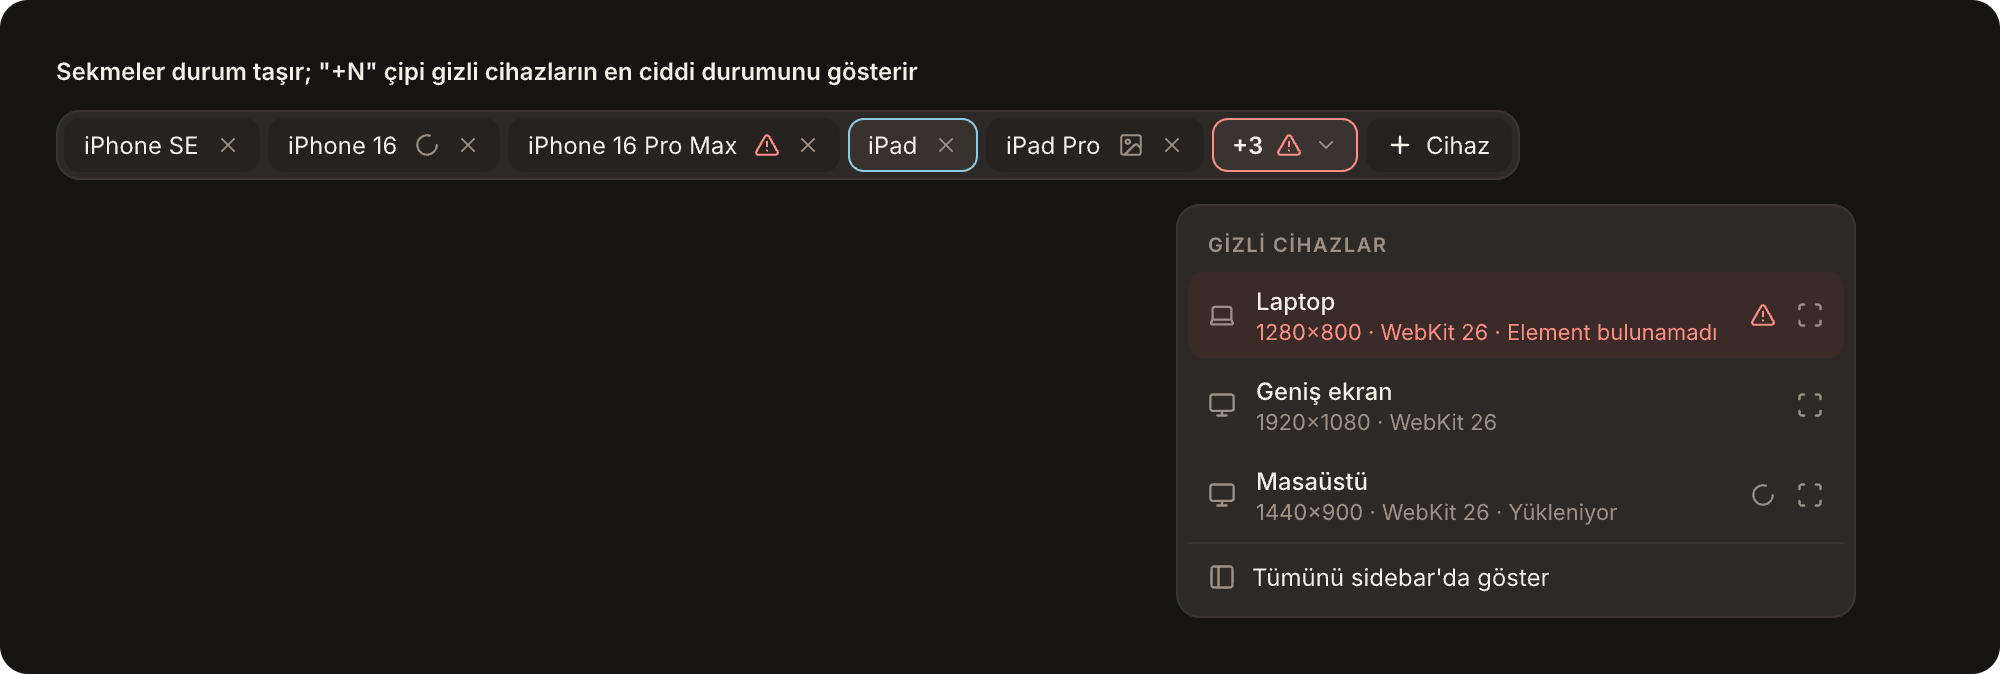
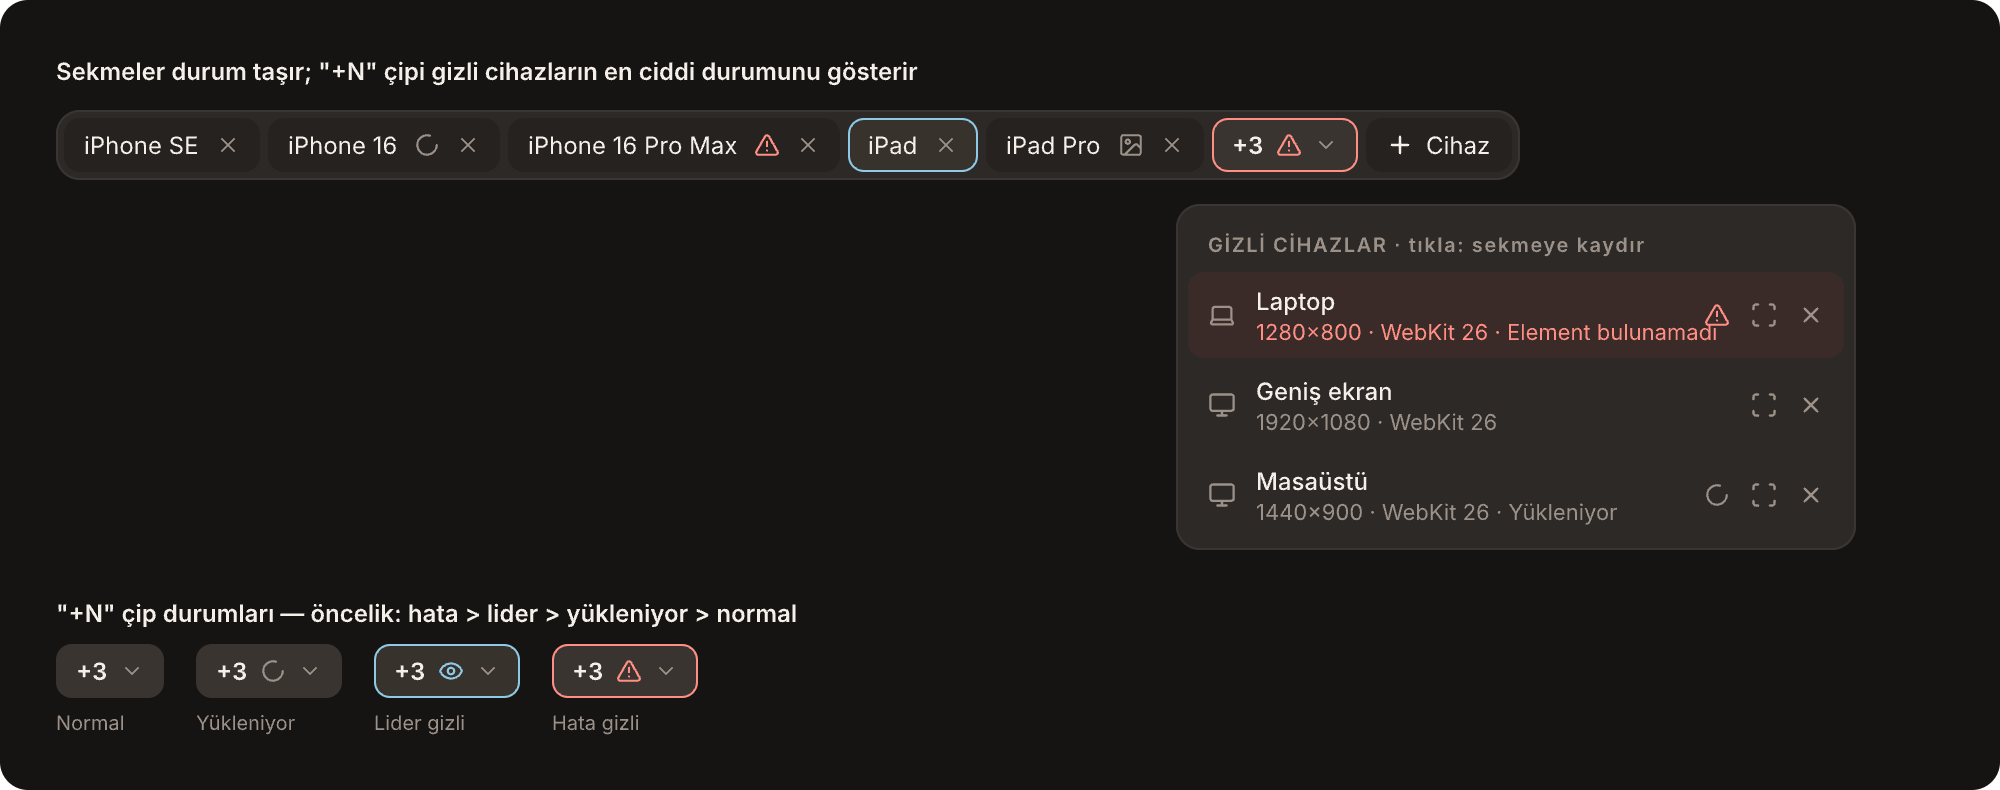
Add +N chip states, archive explorations, compare selected-state options

diff --git a/DESIGN.md b/DESIGN.md
@@ -105,7 +105,7 @@ Kullanıcının kaydettiği birim. Bir markanın (mağazanın) tüm kurulumunu t
 Üst çubuk yok. Üç kontrol yüzeyi, her biri tek iş yapar:
 
 - **Sidebar (220, varsayılan açık):** üstte traffic lights, URL alanı ve geri/ileri/yenile; altında "SAYFALAR" listesi. **URL alanı odaklanınca** altında "SON" menüsü, URL kutusuyla aynı genişlik ve sol hizada, 4 px altında (canvas'a taşmaz): son 5 URL (favicon; adres ortadan kısaltılır; altında ne zaman; ↑↓ ⏎ ile seçilir, yazdıkça süzülür), altta "Geçmişi temizle" ve "Bu sayfayı listeye ekle: ⌘D" ipucu; geçmiş uygulamaya aittir, proje dosyasına girmez. **Sayfa listesi durumları** (`sidebar-states@2x.png`): hover'da satır zemini + sağda kalem ve ⋯; yeniden adlandırma yerinde metin alanı (gök kenar; ⏎ kaydet, Esc iptal); sürükle-bırak'ta satır kalkar (gölge, hafif eğim), hedefte gök ekleme çizgisi; açık URL listede yoksa en altta sarı kenarlı "Bu sayfayı ekle · /yol · ⌘D" satırı; boş durum "Henüz sayfa yok · Açık sayfayı ⌘D ile ekle."; "+ Ekle" her zaman en altta. Kapanınca ışıklar, sidebar düğmesi, nav ve URL canvas'ın üst solunda tek bir yüzen kapsüle taşınır (aynı sırayla), canvas tam genişliği alır.
-- **Cihaz sekmeleri (canvas üstünde yüzen şerit):** açık viewport'lar sırayla; her sekme kartla aynı durumu taşır (lider gök çerçeve, senkron kaçtı mercan üçgen, yükleniyor dönen ikon, snapshot resim ikonu). Sığmayınca şerit kayar (kenarda solma + ok); sağda "+N" çipi gizli cihazların en ciddi durumunu gösterir (hata > lider > yükleniyor > normal) ve menü açar ("GİZLİ CİHAZLAR"): her gizli cihaz için ad, boyut · motor · durum metni, odakla ve kapat düğmeleri. Etkileşimler aşağıdaki tabloda. Sekme adı asla kısaltılmaz, durum ikonu asla gizlenmez. Sonda "+ Cihaz".
+- **Cihaz sekmeleri (canvas üstünde yüzen şerit):** açık viewport'lar sırayla; her sekme kartla aynı durumu taşır (lider gök çerçeve, senkron kaçtı mercan üçgen, yükleniyor dönen ikon, snapshot resim ikonu). Sığmayınca şerit kayar (kenarda solma + ok); sağda "+N" çipi gizli cihazların en ciddi durumunu gösterir (hata > lider > yükleniyor > normal: hata mercan kenar + üçgen, lider gök kenar + göz, yükleniyor dönen ikon, normal düz) ve menü açar ("GİZLİ CİHAZLAR"): her gizli cihaz için ad, boyut · motor · durum metni, odakla ve kapat düğmeleri. Etkileşimler aşağıdaki tabloda. Sekme adı asla kısaltılmaz, durum ikonu asla gizlenmez. Sonda "+ Cihaz".
 - **Alt yüzen çubuk (ikon-only):** Senkron (sarı zincir; kapalıyken gri kırık zincir), Sığdır, zoom kontrolü (`Toolbar/ZoomControl`: yüzde metni + sağında dikey mini stepper ▲▼; yüzdeye tık → menü, ▲▼ kademeli zoom, yüzde yatay sürükle → sürekli zoom), ekran görüntüsü. Her ikonun hover'ında koyu tooltip: ad + kısayol. Bildirim kapsülü bu çubuğun üstüne çıkar; menü veya tooltip açıkken gösterilmez.
 - **Ekran görüntüsü menüsü (kamera düğmesi, çubuğun üstüne açılır):** Tüm viewport'lar ⌘⇧S · Seçili viewport ⌘S · Canvas'ı olduğu gibi · — · Panoya da kopyala ✓ · Ölçek 2× ▾ · — · Son görüntüyü Finder'da göster. Kart başlığındaki kamera yalnız o viewport'u alır. Her yakalamadan sonra kapsül: "Kaydedildi ve kopyalandı · Finder'da Göster".
 - **Zoom menüsü (çubuğun üstüne açılır):** Sığdır ⌘1, Seçimi sığdır ⌘2 · 50% / 100% / 200% (geçerli olan işaretli) · Gerçek boyut ⌘0, Yakınlaştır ⌘+, Uzaklaştır ⌘−.

diff --git a/design/HANDOFF.md b/design/HANDOFF.md
@@ -24,7 +24,8 @@
 - Açık tema: token'lar ve iki referans frame hazır, MVP dışı (kullanıcı kararı).
 - URL son 5 menüsü, sidebar durumları, ekran görüntüsü menüsü çizildi; §5 9–11 kapandı. Motor glifleri ve ikon eskizleri alt ajanlarda (frame'ler `Engine Glyphs` x=-3200,y=0 ve `App Icon Concepts` x=-3200,y=1200).
 - Uygulama ikonu kararı: B6 Vx monogram (DESIGN.md §4).
-- Bilinen eksikler: kart `selected` görünümü varsayım; gizli-lider "+N" çip rengi yalnızca açıklamada (çizilmedi); keşif frame'leri (`Alt ·`, `Style/Palette Exploration`, `Settings K*/S*`, `devpanel-*-pro`) arşivlenmedi; `viewportix.lib.pen` kütüphane dönüşümü yapılmadı (pen.dev'de elle "Turn into library"); Adım 6 teslim paketi (HTML/CSS ölçü dışa aktarımı, Swift token dosyası) üretilmedi; Icon Composer dosyası yok.
+- Dosya düzeni: asıl tasarımlar x ≥ 0; keşifler "Archive ·" önekiyle solda (x < −400), açık tema "Future ·" önekiyle arşivin altında. Kart `selected` karşılaştırması: `Selected Options` frame'i, karar bekliyor.
+- Bilinen eksikler: kart `selected` görünümü varsayım; `viewportix.lib.pen` kütüphane dönüşümü yapılmadı (pen.dev'de elle "Turn into library"); Adım 6 teslim paketi (HTML/CSS ölçü dışa aktarımı, Swift token dosyası) üretilmedi; Icon Composer dosyası yok.
 
 ## Sıradaki iş
 

diff --git a/design/notlar/2026-10-10.md b/design/notlar/2026-10-10.md
@@ -51,3 +51,4 @@
 - Kullanıcı B (Vizör) yönünü seçti; slogan ve ada bağlı altı varyant çizildi (B1–B6). Düzeltmeler: bracket'ler 44→30 px (iç alan açıldı), B1 blokları yeniden ölçüldü, B3 V yolu boyutsuz olduğu için görünmüyordu (width/height verildi). Karar bekliyor.
 - Karar: uygulama ikonu B6 Vx monogram. **İşlendi** (DESIGN.md §4, §5 madde 8 kapandı).
 - Font karşılaştırması geçici frame'de yapıldı (Inter, Geist, IBM Plex Sans, DM Sans, Manrope + mono çiftleri). Bulgu: pen.dev SF Pro / SF Mono / system-ui / Helvetica Neue / Menlo'yu çizemiyor. Karar A: uygulamada SF Pro + SF Mono, dosyada Inter + JetBrains Mono vekil; `font/mono` token'ı eklendi; geçici frame silindi. **İşlendi** (DESIGN.md §4, §6).
+- '+N' çip dört durumu çizildi (Tab States frame'ine eklendi). 36 keşif frame'i 'Archive ·' önekiyle sola, 3 açık tema frame'i 'Future ·' ile arşivin altına taşındı; boş ilk frame silindi. `Selected Options` frame'i: S0 mevcut, S1 köşe tutamaçları, S2 boyut etiketi, S3 çift halka; alt satırda lider+seçili birleşik hal. Bulgu: S0'da lider seçili kartın çerçevesini eziyor, ikisi aynı anda görünmüyor.
